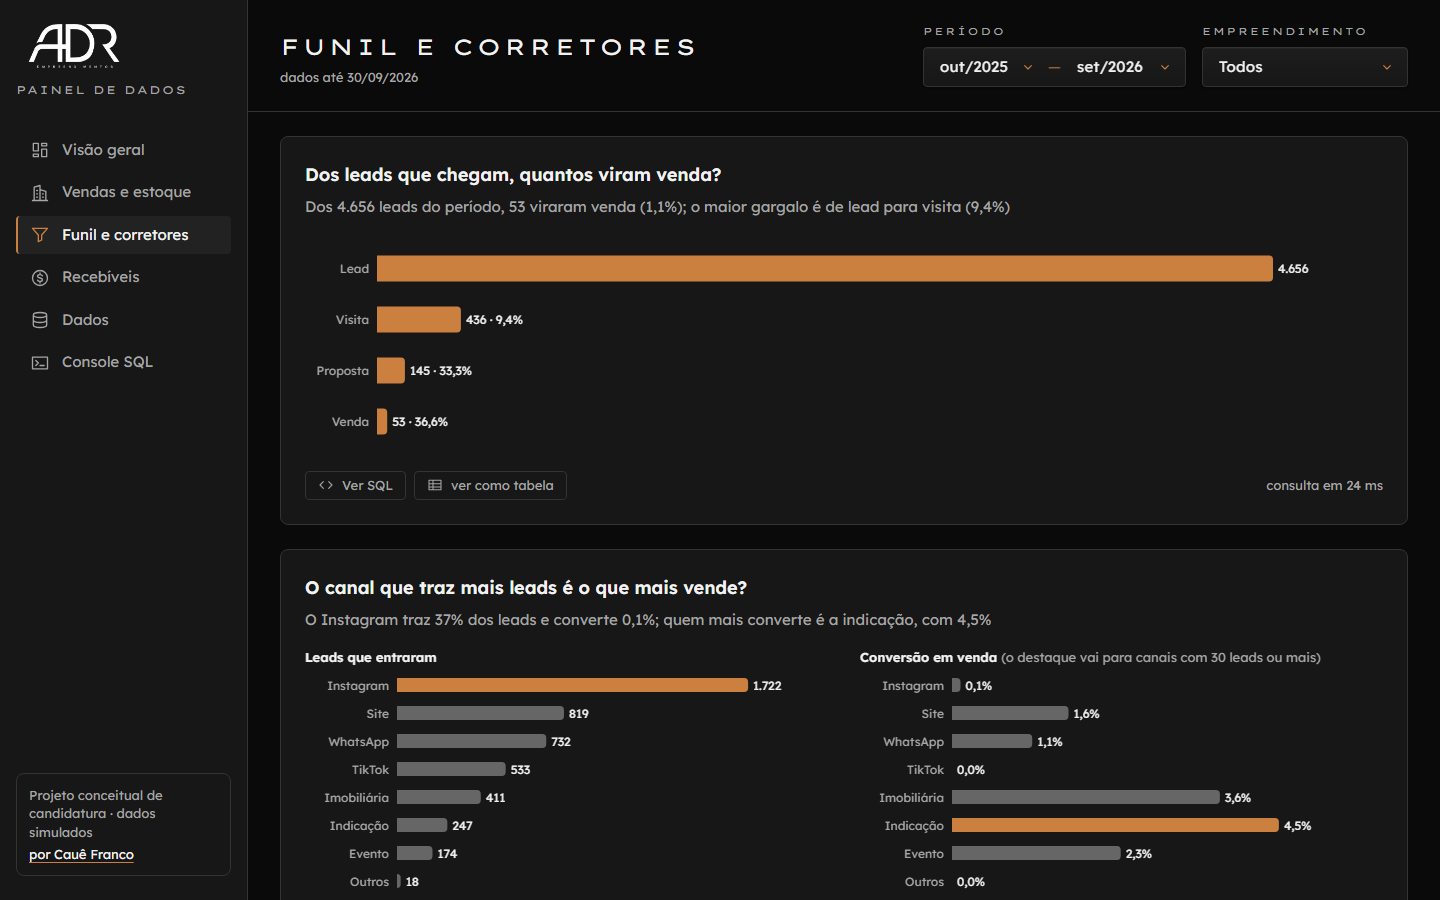
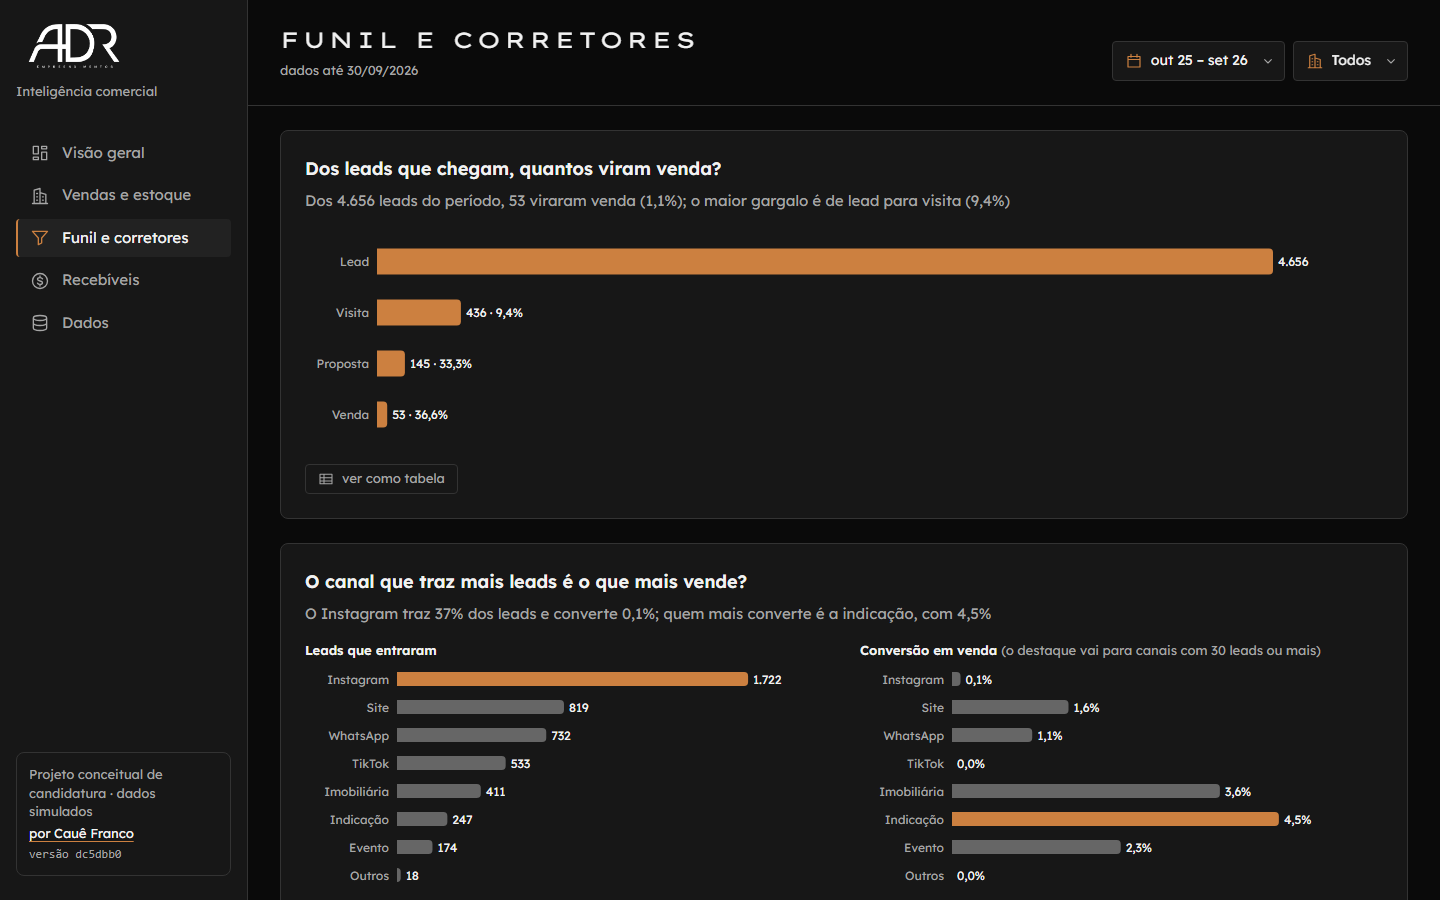
docs: README de acordo com o painel atual
Título com o nome do painel, telas e KPIs de hoje, os filtros em botões, as
consultas separadas entre o painel e o repositório, e as capturas novas
(com a do filtro de período). Saem as capturas do console e do celular, que
nada mais cita; o notebook deixa de citar o console SQL.

diff --git a/README.md b/README.md
@@ -1,4 +1,4 @@
-# Painel de Dados ADR
+# ADR · Inteligência comercial
 
 [![CI e publicação](https://github.com/cauedev30/painel-adr/actions/workflows/ci-e-publicacao.yml/badge.svg)](https://github.com/cauedev30/painel-adr/actions/workflows/ci-e-publicacao.yml)
 
@@ -47,7 +47,7 @@ respostas num painel feito para quem decide. O SQL de cada número está em [`sq
                 │ PostgreSQL (PGlite)                            │
                 │ schemas adr e auditoria, salvo em banco.tar.gz │
                 └───────────────────────┬────────────────────────┘
-                                        │ 30 consultas SQL (sql/consultas/)
+                                        │ consultas SQL (sql/consultas/)
                                         ▼
                 ┌────────────────────────────────────────────────┐
                 │ Painel · React e ECharts, no GitHub Pages      │
@@ -73,7 +73,9 @@ roda as consultas localmente.
 
 ### Painel
 - React 19, TypeScript 6 e Vite 8
-- ECharts 6 nos gráficos (boxplot, funil, mapa de calor), com um destaque em cobre e o resto em cinza
+- ECharts 6 nos gráficos de barras e linhas, com um destaque em cobre e o resto em cinza
+- Transições leves: a tela entra em cascata e as barras crescem; com "reduzir movimento" ligado no
+  sistema, nada anima
 - Vitest 5: cada consulta roda no banco gerado e precisa respeitar invariantes (o funil é decrescente,
   as faixas de atraso somam o vencido em aberto, os padrões plantados aparecem nos dados)
 
@@ -252,16 +254,23 @@ um gráfico, chamando as mesmas funções de `etl/`:
 
 ## Painel
 
+Feito para quem decide: cada cartão é uma pergunta do negócio, com a resposta escrita numa frase logo
+abaixo, calculada dos dados.
+
 | Tela | A pergunta | O que tem |
 |---|---|---|
-| Visão geral | Como está a ADR, numa tela só? | 6 KPIs com a variação contra o período anterior e as vendas mensais × meta |
-| Vendas e estoque | O lançamento está vendendo no ritmo certo? | cartão por empreendimento (vendido × estoque, VSO), ritmo de vendas desde o lançamento, boxplot do preço/m² e estatística descritiva |
-| Funil e corretores | De onde vêm os compradores? | funil com a conversão entre etapas, leads e conversão por canal, ranking de corretores |
-| Recebíveis | O dinheiro das parcelas está entrando? | previsto × recebido, saldo por faixa de atraso, mapa de calor empreendimento × faixa |
+| Visão geral | Como está a ADR, numa tela só? | 5 KPIs (VGV, VSO, estoque, ticket médio e inadimplência), cada um contra o período anterior, e as vendas mensais × meta |
+| Vendas e estoque | O lançamento está vendendo no ritmo certo? | um cartão por empreendimento (vendido × estoque, VSO e VGV) e o ritmo de vendas de cada lançamento |
+| Funil e corretores | De onde vêm os compradores? | o funil com a conversão entre etapas, leads e conversão por canal, e o ranking de corretores |
+| Recebíveis | O dinheiro das parcelas está entrando? | previsto × recebido, saldo por faixa de atraso, mapa de calor empreendimento × faixa, e a inadimplência por empreendimento e por desconto |
 | Dados | Dá para confiar nesses números? | o que a limpeza fez com cada problema dos arquivos brutos, e o que é real e o que é simulado |
 
-Todo cartão tem **ver como tabela**, com os números por trás do gráfico. Período e empreendimento
-filtram a tela inteira.
+Todo cartão tem **ver como tabela**, com os números por trás do gráfico. Os filtros ficam em dois
+botões no topo: o **período**, com atalhos de um clique ("Últimos 12 meses", "Este ano", "Tudo") e uma
+grade de meses para o período exato, e o **empreendimento**. O filtro vai para o endereço da página,
+então um link já abre filtrado.
+
+![O filtro de período aberto, com os atalhos e a grade de meses](docs/img/filtro-periodo-1440.png)
 
 | | |
 |---|---|
@@ -270,18 +279,25 @@ filtram a tela inteira.
 
 ## Consultas SQL
 
-30 consultas em [`sql/consultas/`](sql/consultas): 24 no painel, uma por cartão ou KPI, e 6 que ficam só no
-repositório (o DER lido do catálogo e 5 exemplos avulsos). As que filtram recebem os mesmos parâmetros:
-`$1` início do período, `$2` fim do período e `$3` empreendimento (nulo = todos).
+30 consultas em [`sql/consultas/`](sql/consultas), uma pergunta por arquivo. 19 alimentam o painel, uma
+por cartão ou KPI; as outras 11 ficam no repositório como análise. As que filtram recebem os mesmos
+parâmetros: `$1` início do período, `$2` fim do período e `$3` empreendimento (nulo = todos).
 
-| Tela | Consultas | Um exemplo | Arquivo |
-|---|---|---|---|
-| Visão geral | 7 | Quantas unidades a ADR vendeu a cada mês, e isso bateu a meta? | [`vendas_mensais.sql`](sql/consultas/visao-geral/vendas_mensais.sql) |
-| Vendas e estoque | 5 | A vista para o mar faz a unidade valer mais e vender mais rápido? | [`vista_mar.sql`](sql/consultas/vendas-estoque/vista_mar.sql) |
-| Funil e corretores | 3 | Quem são os corretores que mais vendem, e quem subiu ou caiu no ranking? | [`ranking_corretores.sql`](sql/consultas/funil-corretores/ranking_corretores.sql) |
-| Recebíveis | 8 | O distrato costuma vir depois de um atraso longo? | [`distratos_e_atraso.sql`](sql/consultas/recebiveis/distratos_e_atraso.sql) |
-| Dados | 2 | Que problemas os arquivos brutos tinham, e o que o pipeline fez com cada um? | [`qualidade.sql`](sql/consultas/dados/qualidade.sql) |
-| Exemplos avulsos | 5 | Como as vendas mensais evoluíram desde o primeiro lançamento, sem o sobe e desce? | [`04_media_movel_vendas.sql`](sql/consultas/console/04_media_movel_vendas.sql) |
+| Pasta | No painel | Só no repositório | Um exemplo | Arquivo |
+|---|---|---|---|---|
+| `visao-geral` | 6 | 1 | Quantas unidades a ADR vendeu a cada mês, e isso bateu a meta? | [`vendas_mensais.sql`](sql/consultas/visao-geral/vendas_mensais.sql) |
+| `vendas-estoque` | 2 | 3 | Em que ritmo cada lançamento vendeu, mês a mês desde o lançamento? | [`ritmo_acumulado.sql`](sql/consultas/vendas-estoque/ritmo_acumulado.sql) |
+| `funil-corretores` | 3 | 0 | Quem são os corretores que mais vendem, e quem subiu ou caiu no ranking? | [`ranking_corretores.sql`](sql/consultas/funil-corretores/ranking_corretores.sql) |
+| `recebiveis` | 7 | 1 | Em que empreendimento e em que faixa de atraso o dinheiro está parado? | [`mapa_calor.sql`](sql/consultas/recebiveis/mapa_calor.sql) |
+| `dados` | 1 | 1 | Que problemas os arquivos brutos tinham, e o que o pipeline fez com cada um? | [`qualidade.sql`](sql/consultas/dados/qualidade.sql) |
+| `console` | 0 | 5 | Como as vendas mensais evoluíram desde o primeiro lançamento, sem o sobe e desce? | [`04_media_movel_vendas.sql`](sql/consultas/console/04_media_movel_vendas.sql) |
+
+As que ficam só no repositório respondem perguntas de análise, como a estatística do preço/m²
+([`preco_m2_estatisticas.sql`](sql/consultas/vendas-estoque/preco_m2_estatisticas.sql): média, mediana,
+moda, desvio padrão e percentis), o prêmio da vista mar
+([`vista_mar.sql`](sql/consultas/vendas-estoque/vista_mar.sql)) e o distrato depois do atraso
+([`distratos_e_atraso.sql`](sql/consultas/recebiveis/distratos_e_atraso.sql)). Todas são testadas no
+banco gerado, como as do painel.
 
 O conjunto usa de propósito CTEs, `rank()`, `lag()`, `sum() over` (acumulado), `avg() over` (média
 móvel), `percentile_cont() within group`, `mode()`, `stddev_samp`, `count(*) filter`, `date_trunc`,
@@ -324,15 +340,17 @@ Para a análise ter o que mostrar, a geração **plantou 5 padrões** nos dados:
 4. A inadimplência se concentra num empreendimento e nas vendas com desconto alto
 5. O distrato costuma vir depois de um atraso de mais de 60 dias
 
-Os padrões que o painel mostra aparecem nestes dados porque foram plantados. Numa base
-real, a análise é que descobriria esses padrões.
+Os padrões 1, 2 e 4 estão nas telas do painel; o 3 e o 5, nas consultas
+[`vista_mar.sql`](sql/consultas/vendas-estoque/vista_mar.sql) e
+[`distratos_e_atraso.sql`](sql/consultas/recebiveis/distratos_e_atraso.sql). Eles aparecem nestes dados
+porque foram plantados; numa base real, a análise é que os descobriria.
 
 ## Próximos passos
 
 - [x] Dados simulados com semente fixa e gabarito da sujeira
 - [x] Pipeline ler → tratar → validar → carregar, testado contra o gabarito
 - [x] Banco PostgreSQL com DER, views e 30 consultas
-- [x] Painel com 5 telas e "ver como tabela" em todo cartão
+- [x] Painel com 5 telas, filtros de um clique e "ver como tabela" em todo cartão
 - [x] Notebook do pipeline
 - [x] Publicação automática no GitHub Pages, depois de todos os testes
 - [ ] Relatório mensal em Excel para a diretoria
